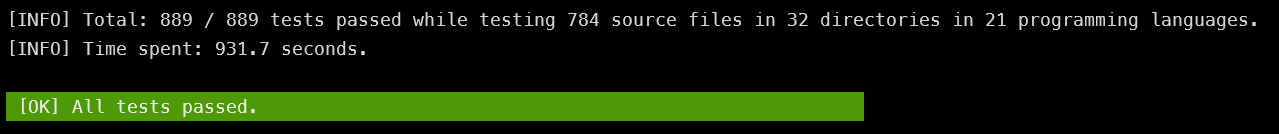
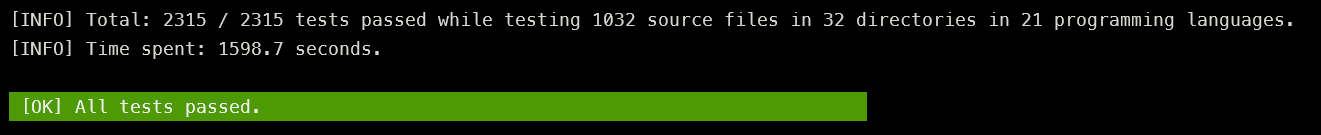
unique puzzle stats

diff --git a/cgtest.php b/cgtest.php
@@ -38,7 +38,12 @@ $zeroStat = [
 $stats = [];
 $stats['totals'] = $zeroStat;
 $stats['totals']['countLanguages'] = 0;
+$stats['totals']['uniquePuzzles'] = 0;
+$stats['totals']['uniqueTests'] = 0;
+$stats['totals']['uniquePassedTests'] = 0;
 $stats['totals']['startTime'] = hrtime(true);
+$uniquePuzzleTests = []; // puzzleName => # of test
+$uniquePuzzlePassed = []; // puzzleName => bitmap of passed tests
 $infoTag = '[INFO] ';
 $errorTag = '[ERROR] ';
 // --------------------------------------------------------------------
@@ -940,6 +945,10 @@ foreach ($config['languages'] as $language) {
                 ++$countTestsForFile;
                 ++$stats['totals']['countTests'];
                 ++$stats[$language]['countTests'];
+                if (!isset($uniquePuzzleTests[$puzzleName])) {
+                    $uniquePuzzleTests[$puzzleName] = 0;
+                    $uniquePuzzlePassed[$puzzleName] = 0;
+                }
                 if ($config['dry-run'] or !$buildSuccessful) {
                     continue;
                 }
@@ -994,6 +1003,7 @@ foreach ($config['languages'] as $language) {
                 }
                 ++$stats['totals']['countPassedTests'];
                 ++$stats[$language]['countPassedTests'];
+                $uniquePuzzlePassed[$puzzleName] |= (1 << $idxTest);
             }
             // --------------------------------------------------------------------
             // print test results for the puzzle
@@ -1003,9 +1013,14 @@ foreach ($config['languages'] as $language) {
             if ($countTestsForFile == 0) {
                 echo $warnTag . 'No test input found for source: ' . $sourceFullFileName . PHP_EOL;
             }
+            if (isset($uniquePuzzleTests[$puzzleName])) {
+                $uniquePuzzleTests[$puzzleName] = max($uniquePuzzleTests[$puzzleName], $countTestsForFile);
+            }
             if ($config['dry-run']) {
-                echo $infoTag . str_pad(strval($countTestsForFile), $testIdxWidth, ' ', STR_PAD_LEFT) . ' test'
-                    . ($countTestsForFile > 1 ? 's' : ' ') . ' : ' . $sourceFullFileName . PHP_EOL;
+                if ($config['verbose']) {
+                    echo $infoTag . str_pad(strval($countTestsForFile), $testIdxWidth, ' ', STR_PAD_LEFT) . ' test'
+                        . ($countTestsForFile > 1 ? 's' : ' ') . ' : ' . $sourceFullFileName . PHP_EOL;
+                }
                 continue;
             }
             if ((count($testsFailed) > 0) and (count($testsFailed) == $countTestsForFile)) {
@@ -1027,6 +1042,18 @@ foreach ($config['languages'] as $language) {
     }
     $stats[$language]['spentTime'] = hrtime(true) - $stats[$language]['startTime'];
 }
+// --------------------------------------------------------------------
+// process some stats
+$stats['totals']['uniquePuzzles'] = count($uniquePuzzleTests);
+$stats['totals']['uniqueTests'] = array_sum($uniquePuzzleTests);
+$stats['totals']['uniquePassedTests'] = 0;
+foreach ($uniquePuzzlePassed as $bitmap) {
+    $i = $bitmap;
+    while ($i != 0) {
+        $stats['totals']['uniquePassedTests'] += ($i & 1);
+        $i >>= 1;
+    }
+}
 $stats['totals']['spentTime'] = hrtime(true) - $stats['totals']['startTime'];
 // --------------------------------------------------------------------
 // print per language stats
@@ -1039,6 +1066,9 @@ if ($config['stats']) {
             continue;
         }
         $status = $ansiGreen . '[PASS]' . $ansiReset;
+        if ($config['dry-run'] or $config['clean']) {
+            $status = str_repeat(' ', 6);
+        }
         $testsStr = str_pad(substr(strval($stat['countTests']), 0, 6), 6, ' ', STR_PAD_LEFT);
         if (!$config['clean'] and ($stat['countTests'] == 0)) {
             $testsStr = $ansiYellow . $testsStr . $ansiReset;
@@ -1164,13 +1194,20 @@ if (!$wasLF) {
     $wasLF = true;
 }
 echo $infoTag . 'Total: ' . $stats['totals']['countPassedTests'] . ' / '
-    . $stats['totals']['countTests'] . ' tests passed while testing '
+    . $stats['totals']['countTests'] . ' test'
+    . ($stats['totals']['countTests'] > 1 ? 's' : '') . ' passed while testing '
     . $stats['totals']['countFiles'] . ' source file'
     . ($stats['totals']['countFiles'] > 1 ? 's' : '') . ' in '
     . $stats['totals']['countDirectories'] . ' director'
     . ($stats['totals']['countDirectories'] > 1 ? 'ies' : 'y') . ' in '
     . $stats['totals']['countLanguages'] . ' programming language'
     . ($stats['totals']['countLanguages'] > 1 ? 's' : '') . '.' . PHP_EOL;
+if ($stats['totals']['uniquePuzzles'] != $stats['totals']['countFiles']) {
+    echo $infoTag . 'Total unique: ' . $stats['totals']['uniquePassedTests'] . ' / '
+    . $stats['totals']['uniqueTests'] . ' tests passed while testing '
+    . $stats['totals']['uniquePuzzles'] . ' puzzle'
+    . ($stats['totals']['uniquePuzzles'] > 1 ? 's' : '') . ' (in any language). ' . PHP_EOL;
+}
 $timeStr = number_format($stats['totals']['spentTime'] / 1000000000, 1, '.', '');
 echo $infoTag . "Time spent: $timeStr seconds." . PHP_EOL . PHP_EOL;
 if (!$config['dry-run']) {
@@ -1178,8 +1215,7 @@ if (!$config['dry-run']) {
         echo $ansiRed . str_pad(' [FAIL] Some tests failed.', $statusWidth) . $ansiReset . PHP_EOL . PHP_EOL;
         exit(1);
     }
-    echo $ansiGreen . str_pad(' [OK] All tests passed.', $statusWidth) . $ansiReset . PHP_EOL;
+    echo $ansiGreen . str_pad(' [OK] All tests passed.', $statusWidth) . $ansiReset . PHP_EOL . PHP_EOL;
 }
-echo PHP_EOL;
 exit(0);
 // --------------------------------------------------------------------

diff --git a/.cgtest.full.php b/.cgtest.full.php
@@ -115,7 +115,7 @@ return [
         ],
         'puzzle/community/hard/' => [
             'hard_com_execution-circle',
-            'hard_com_google-interview-the-two-egg-problem',
+            'hard_com_google-interview---the-two-egg-problem',
             'hard_com_highest-truncated-pyramid',
         ],
         'puzzle/community/expert/' => [
@@ -648,7 +648,7 @@ return [
                 'hard_com_cheat-solving',
                 'hard_com_chess-board-analyzer',
                 'hard_com_chess-cavalry',
-                'hard_com_chess-moves-on-FEN-position',
+                'hard_com_chess-moves-on-fen-position',
                 'hard_com_closest-number',
                 'hard_com_cloudy-weather',
                 'hard_com_code-your-own-automaton2000-step-1',

diff --git a/CHANGELOG.md b/CHANGELOG.md
@@ -10,6 +10,7 @@ and this project adheres to [Semantic Versioning](https://semver.org/spec/v2.0.0
 ### Added
 
 - More CG puzzle test cases added, total is now over 500 test cases for 400 puzzles.
+- Stats for  unique puzzles.
 
 ### Changed
 
